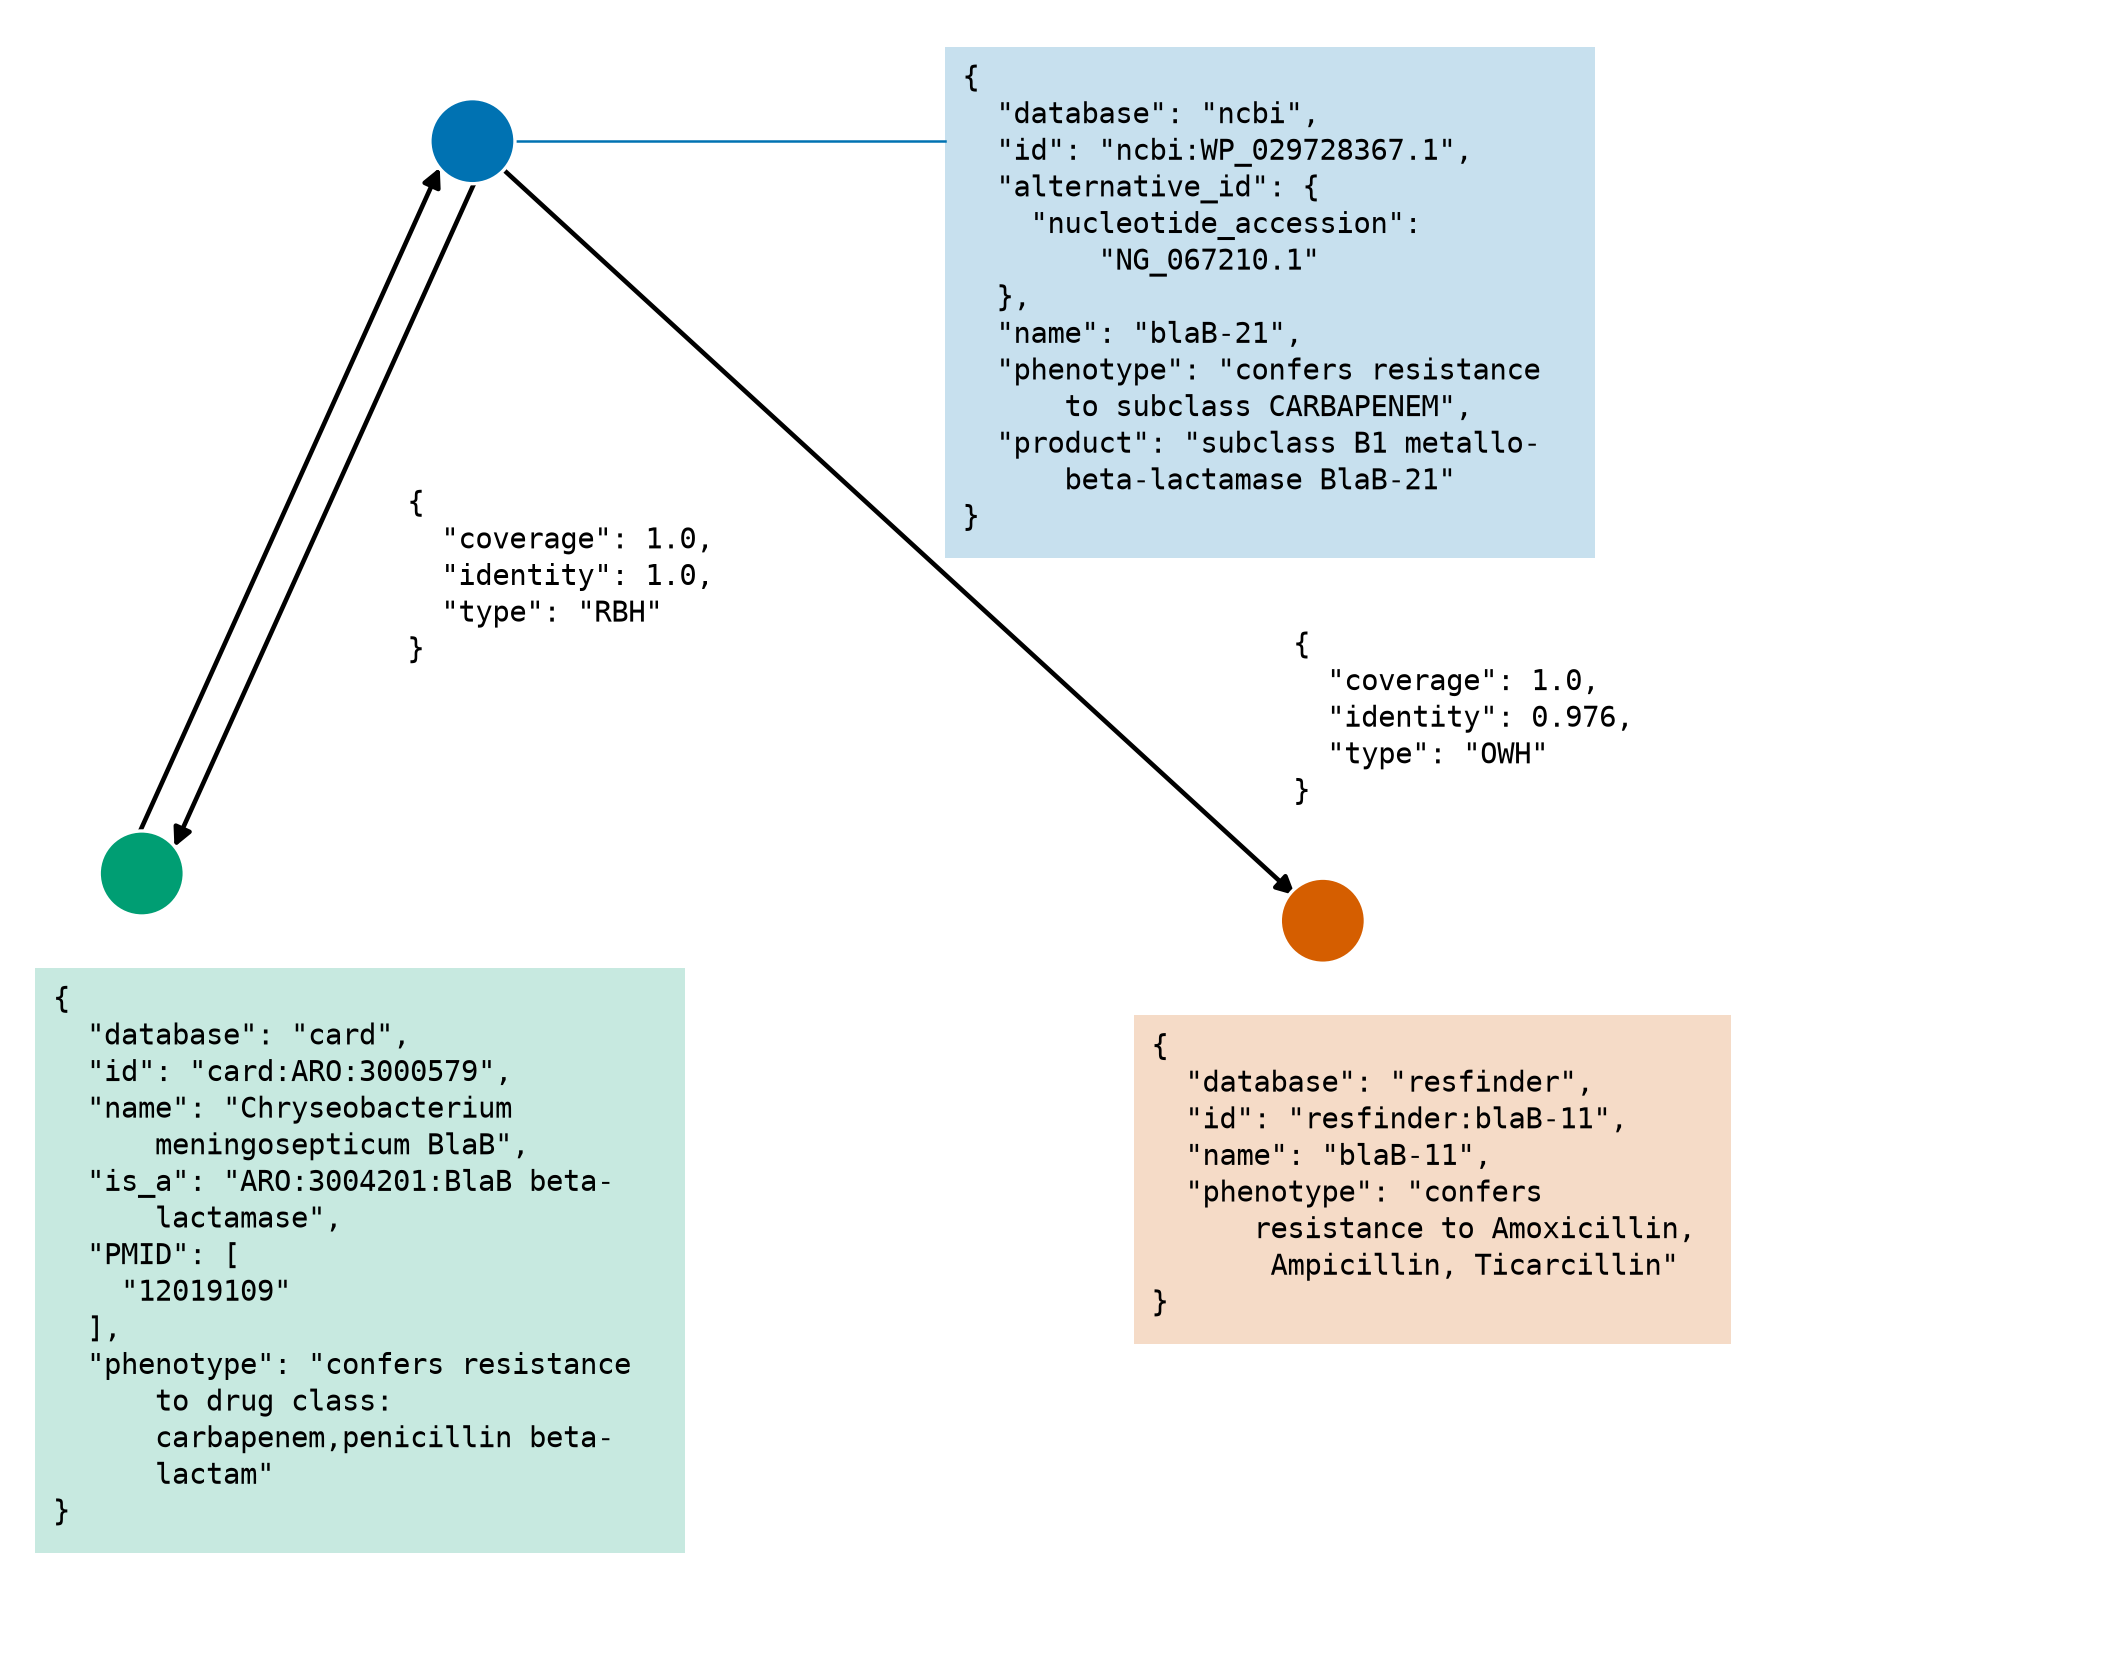
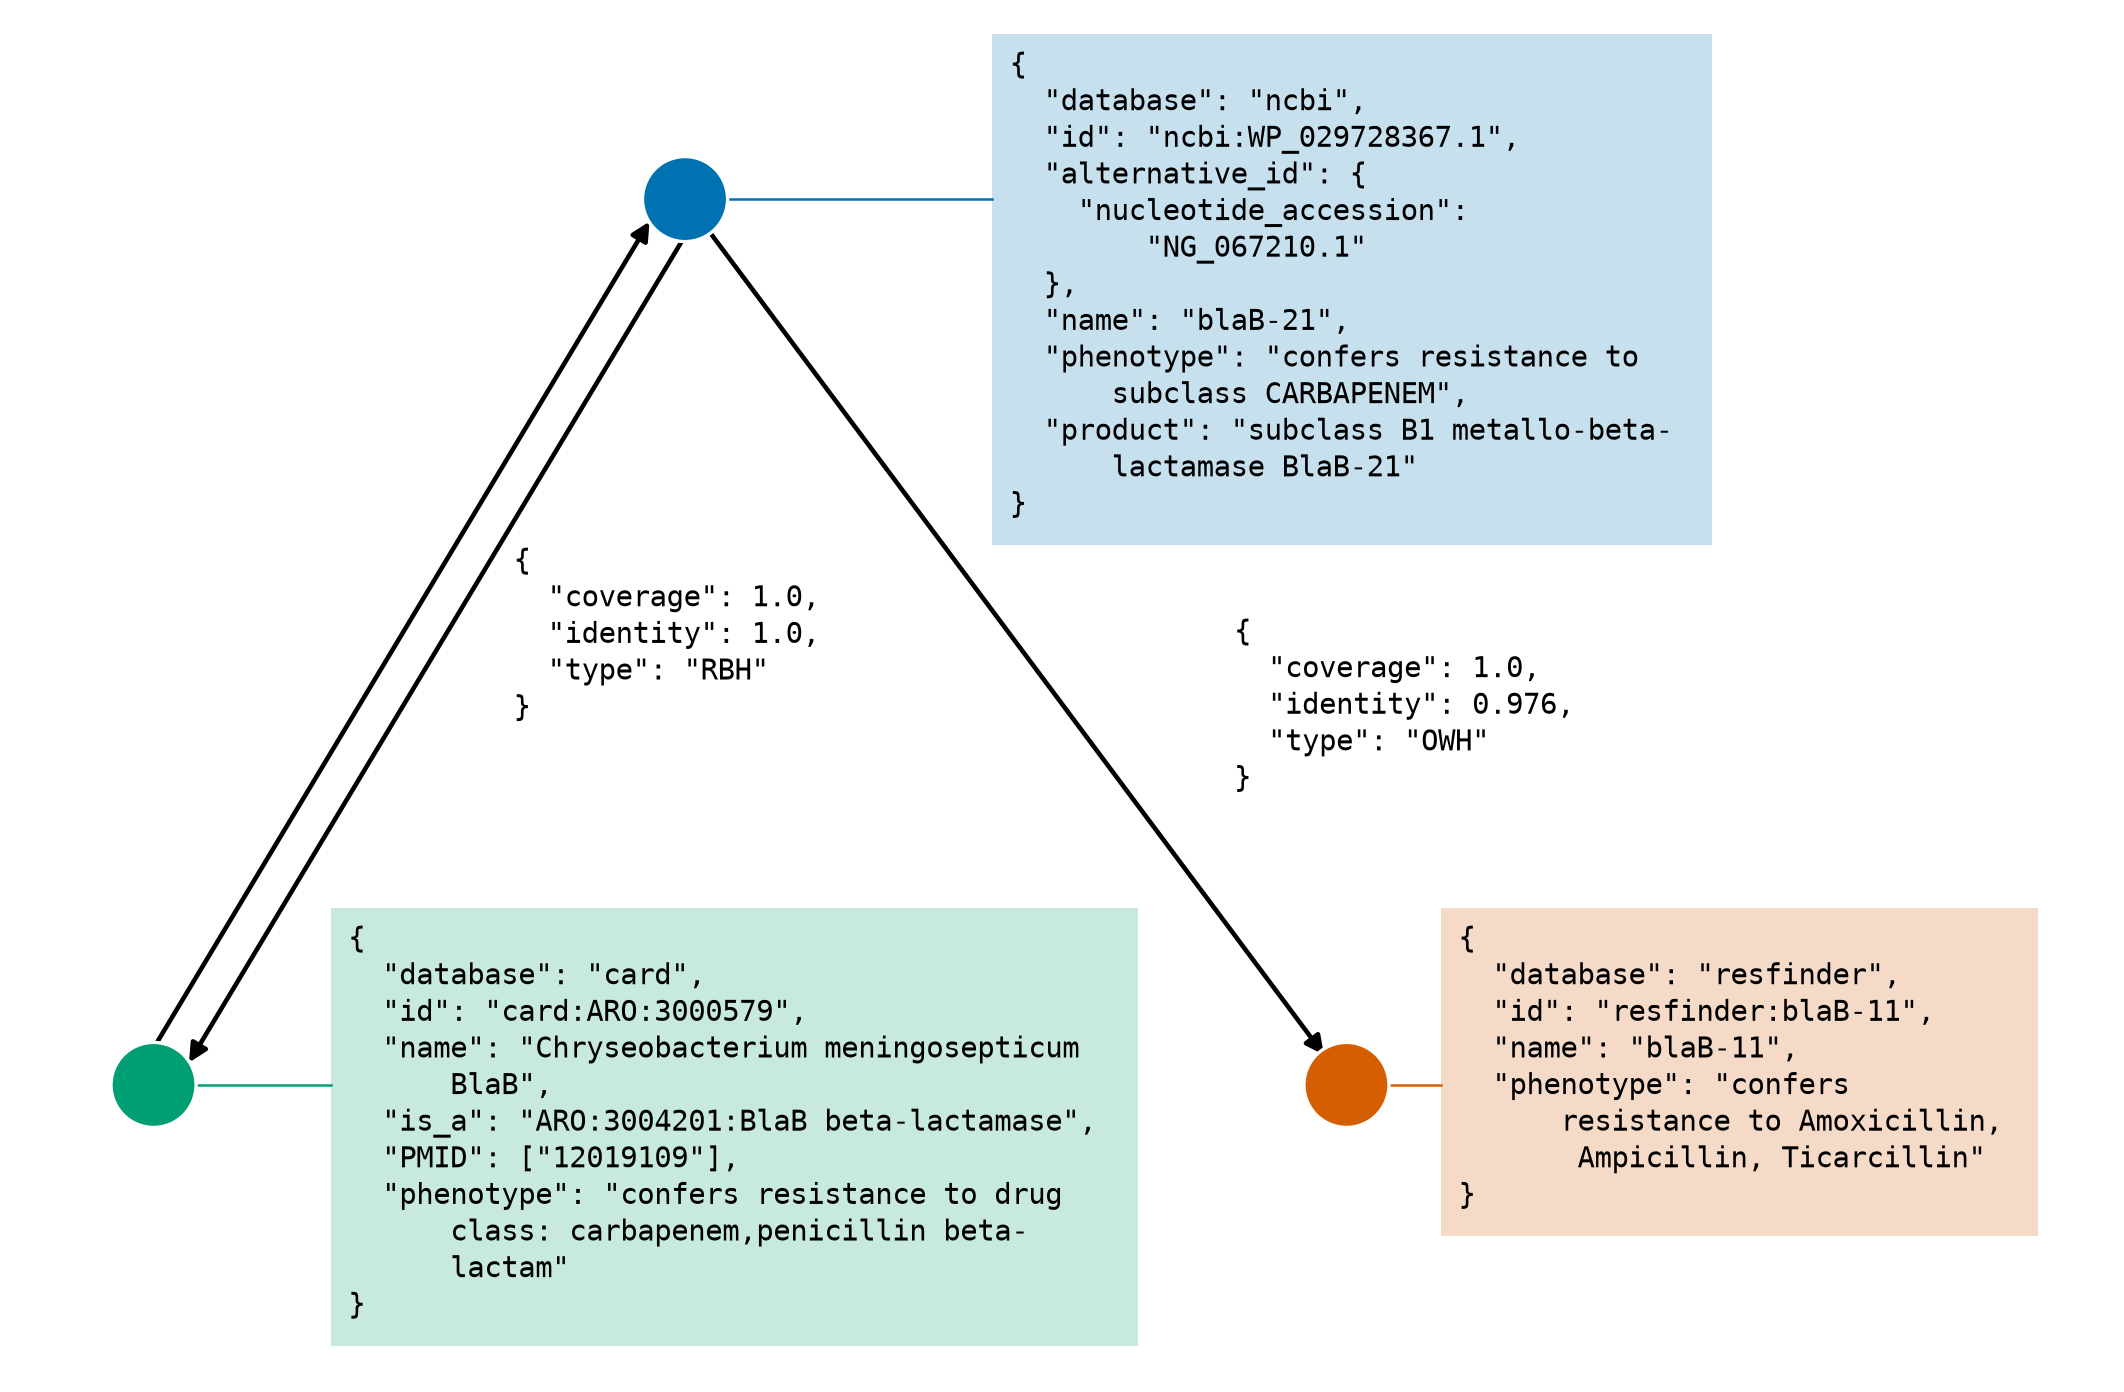
Follow the original hero layout in the graph example figure
NCBI at the apex with its box to the right, CARD and ResFinder below,
the steep one-way edge passing left of the NCBI box, edge labels beside
their edges and a thin line from each circle to its box. Short lists are
shown on one line, and the layout asserts that every box is inside the
figure.

Claude-Session: https://claude.ai/code/session_01PToxgUGoLJeoaJsEf7cbaj

diff --git a/analysis/figures.py b/analysis/figures.py
@@ -571,19 +571,31 @@ def graph_example(graph, out_dir, name=GRAPH_EXAMPLE_NAME):
     nodes = [node_object(n) for n in GRAPH_EXAMPLE]
     edges = [{"source": s, "target": t, **edge_object(s, t)} for s, t in edges_wanted]
 
+    def json_lines(obj):
+        """json.dumps with indent 2, except that lists of scalars stay on one line (still valid JSON)."""
+        items = list(obj.items())
+        lines = ["{"]
+        for n, (key, value) in enumerate(items):
+            text = json.dumps(value) if isinstance(value, list) else json.dumps(value, indent=2).replace("\n", "\n  ")
+            lines.extend(f'  {json.dumps(key)}: {text}{"," if n < len(items) - 1 else ""}'.split("\n"))
+        return lines + ["}"]
+
     def wrapped(obj, width):
         lines = []
-        for line in json.dumps(obj, indent=2).splitlines():
+        for line in json_lines(obj):
             indent = len(line) - len(line.lstrip())
-            lines.extend(textwrap.wrap(line, width, subsequent_indent=" " * (indent + 4), drop_whitespace=False, break_long_words=True) or [line])
+            lines.extend(l.rstrip() for l in textwrap.wrap(line, width, subsequent_indent=" " * (indent + 4), drop_whitespace=False, break_long_words=True) or [line])
         return lines
 
-    fig = style.new_figure(180, 140)
-    ax = style.axes_mm(fig, 0, 0, 180, 140)
+    HEIGHT = 118
+    fig = style.new_figure(180, HEIGHT)
+    ax = style.axes_mm(fig, 0, 0, 180, HEIGHT)
     ax.set_xlim(0, 180)
-    ax.set_ylim(0, 140)
+    ax.set_ylim(0, HEIGHT)
     ax.axis("off")
     cell, step = 1.4866, 3.1
+
+    extents = []
 
     def box(lines, x, y_top, colour=None):
         width = (max(len(l) for l in lines) + 2) * cell
@@ -592,16 +604,21 @@ def graph_example(graph, out_dir, name=GRAPH_EXAMPLE_NAME):
             ax.add_patch(FancyBboxPatch((x, y_top - height), width, height, boxstyle="square,pad=0", facecolor=colour, edgecolor="none", alpha=0.22, zorder=0))
         for i, line in enumerate(lines):
             ax.text(x + cell, y_top - 1.5 - i * step, line, family="DejaVu Sans Mono", fontsize=7, ha="left", va="top", zorder=2)
+        extents.append((x, y_top - height, x + width, y_top))
         return width, height
 
-    # a triangle: NCBI at the apex, CARD bottom left, ResFinder bottom right; boxes are placed clear of the arrows
-    place = {ncbi: (40, 128), card: (12, 66), resfinder: (112, 62)}
+    # Layout (as the original figure): NCBI at the apex with its box to the right, CARD and ResFinder below with their boxes to the right.
+    # The OWH edge is steep so that it passes left of the NCBI box. Both edge labels sit beside their edge, outside the arrows' path,
+    # and a thin line in the database colour joins each circle to its box.
+    dx, dy = 8, 4
+    place = {ncbi: (50 + dx, 97 + dy), card: (5 + dx, 22 + dy), resfinder: (106 + dx, 22 + dy)}
     for node_id, (x, y) in place.items():
         ax.add_patch(Circle((x, y), 3.6, facecolor=style.DATABASE_COLOURS[node_id.split(":")[0]], edgecolor="white", linewidth=0.8, zorder=3))
-    ax.plot([place[ncbi][0] + 3.6, 80], [128, 128], color=style.DATABASE_COLOURS["ncbi"], linewidth=0.6, zorder=1)
-    box(wrapped(nodes[1], 36), 80, 136, style.DATABASE_COLOURS["ncbi"])
-    box(wrapped(nodes[0], 36), 3, 58, style.DATABASE_COLOURS["card"])
-    box(wrapped(nodes[2], 32), 96, 54, style.DATABASE_COLOURS["resfinder"])
+    for node_id, obj, width, left, top in ((ncbi, nodes[1], 40, 76, 111 + dy), (card, nodes[0], 44, 20, 37 + dy), (resfinder, nodes[2], 32, 114, 37 + dy)):
+        colour = style.DATABASE_COLOURS[node_id.split(":")[0]]
+        x, y = place[node_id]
+        ax.plot([x + 3.6, left + dx], [y, y], color=colour, linewidth=0.6, zorder=1)
+        box(wrapped(obj, width), left + dx, top, colour)
 
     def arrow(a, b, offset=0.0):
         (x0, y0), (x1, y1) = place[a], place[b]
@@ -613,8 +630,9 @@ def graph_example(graph, out_dir, name=GRAPH_EXAMPLE_NAME):
     arrow(card, ncbi, 1.6)
     arrow(ncbi, card, 1.6)
     arrow(ncbi, resfinder)
-    box(wrapped(edge_object(card, ncbi), 30), 33, 100)
-    box(wrapped(edge_object(ncbi, resfinder), 30), 108, 88)
+    box(wrapped(edge_object(card, ncbi), 30), 34 + dx, 69 + dy)
+    box(wrapped(edge_object(ncbi, resfinder), 30), 95 + dx, 63 + dy)
+    assert all(x0 >= 0 and y0 >= 0 and x1 <= 180 and y1 <= HEIGHT for x0, y0, x1, y1 in extents), extents
     style.save_figure(fig, out_dir / name)
     (out_dir / f"source_data_{name}.json").write_text(json.dumps({"nodes": nodes, "edges": edges}, indent=2) + "\n")
     return fig

diff --git a/analysis/tests/test_figures.py b/analysis/tests/test_figures.py
@@ -366,7 +366,7 @@ def test_graph_example_figure_names_size_and_determinism(tmp_path):
     graph = matches.read_graph(BUNDLED)
     fig = figures.graph_example(graph, tmp_path / "a")
     figures.graph_example(graph, tmp_path / "b")
-    assert tuple(round(v * 25.4, 6) for v in fig.get_size_inches()) == (180.0, 140.0)
+    assert tuple(round(v * 25.4, 6) for v in fig.get_size_inches()) == (180.0, 118.0)
     texts = " ".join(" ".join(t.get_text().split()) for ax in fig.axes for t in ax.texts)
     for needle in ("blaB-21", "Chryseobacterium meningosepticum BlaB", "blaB-11", '"RBH"', '"OWH"', "0.976", "WP_029728367.1"):
         assert needle in texts, needle
